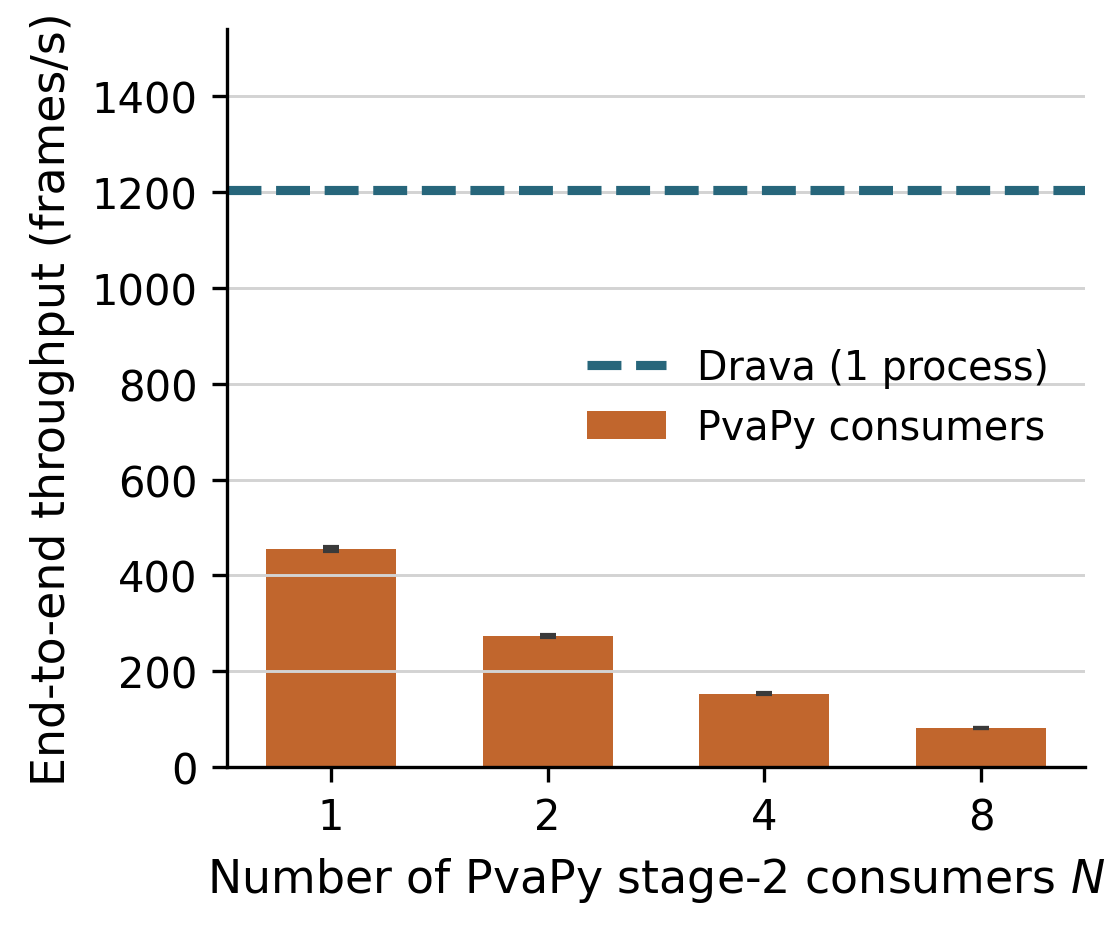
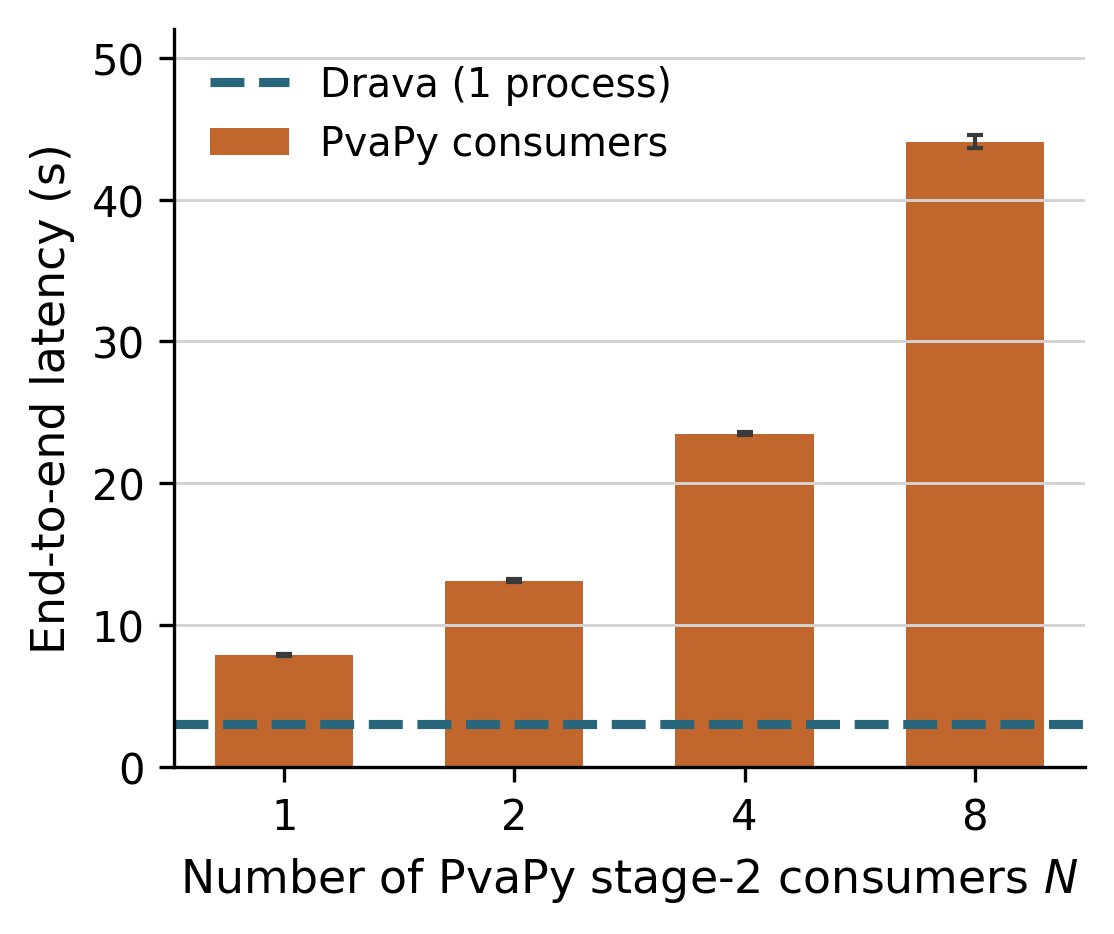
Distributor figure: switch to end-to-end latency (rises 8->44s with N, all above Drava ~3s) per boss request

Changed region(s): [[0.0916, 0.031, 0.9767, 0.9004], [0.1526, 0.8383, 1.0, 0.9625], [0.0305, 0.0, 0.061, 0.8383]]

diff --git a/experiments/figures/pvapy_drava_comparison/plot_pvapy_distributor_scaling.py b/experiments/figures/pvapy_drava_comparison/plot_pvapy_distributor_scaling.py
@@ -1,19 +1,19 @@
 #!/usr/bin/env python3
-r"""PvaPy HPC distributor scaling: end-to-end throughput vs consumer count.
+r"""PvaPy HPC distributor scaling: end-to-end latency vs consumer count.
 
 The point of this figure: on PvaPy's supported multi-consumer path (the HPC data
-distributor), adding stage-2 consumers does NOT help. The stream is already
-delivered loss-free at N=1 because GPU stage-1 throttles it, so splitting the
-cheap CPU stitch across more processes only adds distributor and IPC overhead.
-End-to-end throughput therefore drops monotonically with N (about 455 fps at N=1
-down to 82 fps at N=8), and even the best PvaPy point stays well below Drava's
-single-process two-stage pipeline (dashed reference).
+distributor), adding stage-2 consumers does NOT improve performance. The stream
+is already delivered loss-free at N=1 because GPU stage-1 throttles it, so
+splitting the cheap CPU stitch across more processes only adds distributor and
+IPC overhead. End-to-end latency therefore rises monotonically with N (about 8s
+at N=1 up to 44s at N=8), and every PvaPy point is slower than Drava's
+single-process two-stage pipeline (~3s, dashed reference).
 
-End-to-end time is measured identically to Drava's benchmark_two_stages.py:
-first frame sent -> last stage-2 object received. Bars are mean over rate x run.
+Latency is measured identically to Drava's benchmark_two_stages.py: first frame
+sent -> last stage-2 object received. Bars are mean over rate x run.
 
 Inputs (curated CSVs in this directory):
-  - pvapy_hpc_distributor_sweep.csv   (this sweep, has pipeline_fps)
+  - pvapy_hpc_distributor_sweep.csv   (this sweep, has pipeline_e2e_s)
   - drava_two_stage_summary.csv       (Drava two-stage e2e, for the reference)
 """
 from __future__ import annotations
@@ -44,8 +44,8 @@ def read_rows(path):
         return list(csv.DictReader(f))
 
 
-def drava_reference_fps():
-    """Mean Drava two-stage e2e throughput over paced rates (batch 128)."""
+def drava_reference_latency():
+    """Mean Drava two-stage end-to-end latency over paced rates (batch 128)."""
     vals = []
     for r in read_rows(DRAVA_TS_CSV):
         try:
@@ -56,7 +56,7 @@ def drava_reference_fps():
                 continue
             e2e = float(r["pipeline_e2e_s"])
             if e2e > 0:
-                vals.append(NUM_FRAMES / e2e)
+                vals.append(e2e)
         except (KeyError, ValueError):
             continue
     return mean(vals) if vals else None
@@ -68,15 +68,15 @@ def main() -> None:
     args = ap.parse_args()
 
     rows = read_rows(SWEEP_CSV)
-    fps = defaultdict(list)  # N -> [pipeline_fps] over complete runs
+    lat = defaultdict(list)  # N -> [pipeline_e2e_s] over complete runs
     for r in rows:
-        if r["pipeline_fps"]:
-            fps[int(r["n_consumers"])].append(float(r["pipeline_fps"]))
+        if r["pipeline_e2e_s"]:
+            lat[int(r["n_consumers"])].append(float(r["pipeline_e2e_s"]))
 
-    ns = sorted(fps)
-    fps_mean = [mean(fps[n]) for n in ns]
-    fps_std = [pstdev(fps[n]) if len(fps[n]) > 1 else 0.0 for n in ns]
-    drava_ref = drava_reference_fps()
+    ns = sorted(lat)
+    lat_mean = [mean(lat[n]) for n in ns]
+    lat_std = [pstdev(lat[n]) if len(lat[n]) > 1 else 0.0 for n in ns]
+    drava_ref = drava_reference_latency()
 
     plt.rcParams.update({
         "font.size": 11, "axes.labelsize": 11, "axes.titlesize": 11,
@@ -86,7 +86,7 @@ def main() -> None:
 
     fig, ax = plt.subplots(figsize=(3.6, 3.0), constrained_layout=True)
     x = list(range(len(ns)))
-    ax.bar(x, fps_mean, yerr=fps_std, width=0.6, color=COLOR_BAR,
+    ax.bar(x, lat_mean, yerr=lat_std, width=0.6, color=COLOR_BAR,
            error_kw={"elinewidth": 1.0, "capsize": 2, "capthick": 1.0,
                      "ecolor": "#3a3a3a"},
            label="PvaPy consumers")
@@ -98,13 +98,13 @@ def main() -> None:
     ax.set_xticks(x)
     ax.set_xticklabels([str(n) for n in ns])
     ax.set_xlabel("Number of PvaPy stage-2 consumers $N$")
-    ax.set_ylabel("End-to-end throughput (frames/s)")
-    ymax = max(fps_mean + ([drava_ref] if drava_ref else []))
-    ax.set_ylim(0, ymax * 1.28)
+    ax.set_ylabel("End-to-end latency (s)")
+    ymax = max(lat_mean + ([drava_ref] if drava_ref else []))
+    ax.set_ylim(0, ymax * 1.18)
     ax.spines["top"].set_visible(False)
     ax.spines["right"].set_visible(False)
     ax.grid(True, axis="y", color="#D3D3D3", linewidth=0.7)
-    ax.legend(loc="center right", frameon=False)
+    ax.legend(loc="upper left", frameon=False)
 
     out_base = Path(args.out).resolve() if args.out else FIGS_DIR / "pvapy_distributor_scaling"
     out_base.parent.mkdir(parents=True, exist_ok=True)
